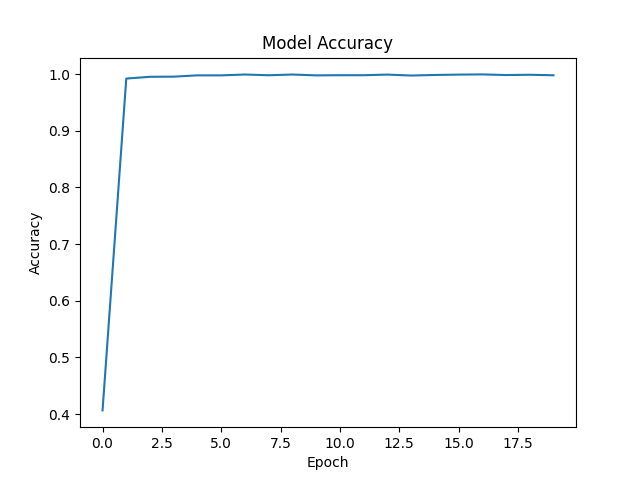
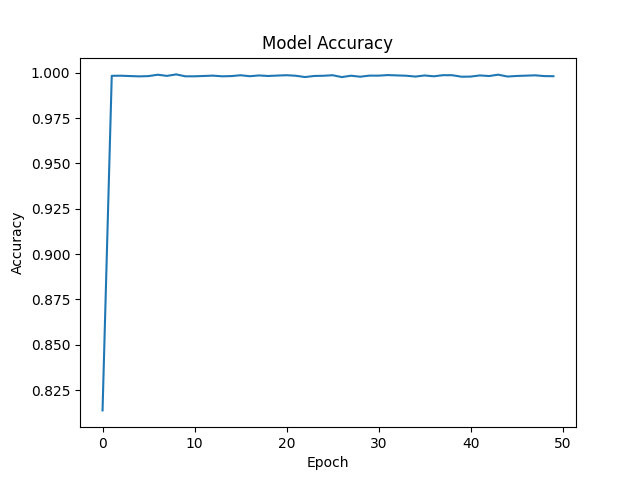
Changes made during the meeting

diff --git a/model_iter1/model.py b/model_iter1/model.py
@@ -4,6 +4,7 @@ import os
 import skimage.io as io
 import skimage.transform as trans
 import numpy as np
+import tensorflow as tf
 from tensorflow.keras.models import *
 from tensorflow.keras.layers import *
 from tensorflow.keras.optimizers import *
@@ -59,9 +60,9 @@ def unet(pretrained_weights = None,input_size = (400,400,1)):
 
     # model.compile(optimizer = Adam(lr = 1e-4), loss = 'binary_crossentropy', metrics = ['accuracy'])
     mIOU = MeanIoU(num_classes=2)
-    sigLoss= SigmoidFocalCrossEntropy()
+    sigLoss= SigmoidFocalCrossEntropy(alpha=0.1, gamma=2.0)
    
-    model.compile(optimizer = Adam(lr = 1e-4), loss = [sigLoss], metrics=["accuracy"]) #mIOU
+    model.compile(optimizer = Adam(lr = 1e-4), loss = [sigLoss], metrics=["accuracy", mIOU, tf.keras.metrics.Recall(thresholds=[0.1])]) #mIOU recall precision tf.keras.metrics.Recall(thresholds=[0.1])
     
     #model.summary()
 

diff --git a/model_iter1/train.py b/model_iter1/train.py
@@ -30,7 +30,7 @@ model = unet()
 
 
 # Fit Model
-history = model.fit(myGene, steps_per_epoch=4, epochs=20)
+history = model.fit(myGene, steps_per_epoch=10, epochs=50)
 
 try:
     os.mkdir("model_iter1/model_accuracy")
@@ -50,7 +50,7 @@ preds = model.predict(native_chips[0].reshape([-1,400, 400,1]))
 pred_img = preds[0]
 true_chip = native_chips[0]
 true_mask = _05masks[0]
-save_img("model_iter1/model_accuracy/trained_model_sample_pred.png", pred_img.clip(max=1))
+save_img("model_iter1/model_accuracy/trained_model_sample_pred.png", pred_img) # Show image and look at probab vals
 save_img("model_iter1/model_accuracy/Predicted_native_chip.png", true_chip)
 save_img("model_iter1/model_accuracy/True_Mask.png", true_mask)
 

diff --git a/model_iter1/dataLoader.py b/model_iter1/dataLoader.py
@@ -118,8 +118,7 @@ def trainGenerator(batch_size,train_path,image_folder,mask_folder,aug_dict,image
     train_generator = zip(image_generator, mask_generator)
     for (img,mask) in train_generator:
         img, mask = prepareData(img, mask)
-        print(img)
-        print(mask)
+        print(len(mask))
         yield (img,mask)
 
 

diff --git a/trainingset_extractor.py b/trainingset_extractor.py
@@ -4,6 +4,8 @@ import numpy as np
 import os
 import shutil as sh
 
+# RGB chips have an alpha channel
+
 # Global Variables
 SET_SIZE = int(sys.argv[1])    # Number of rows to extract into subset
 
